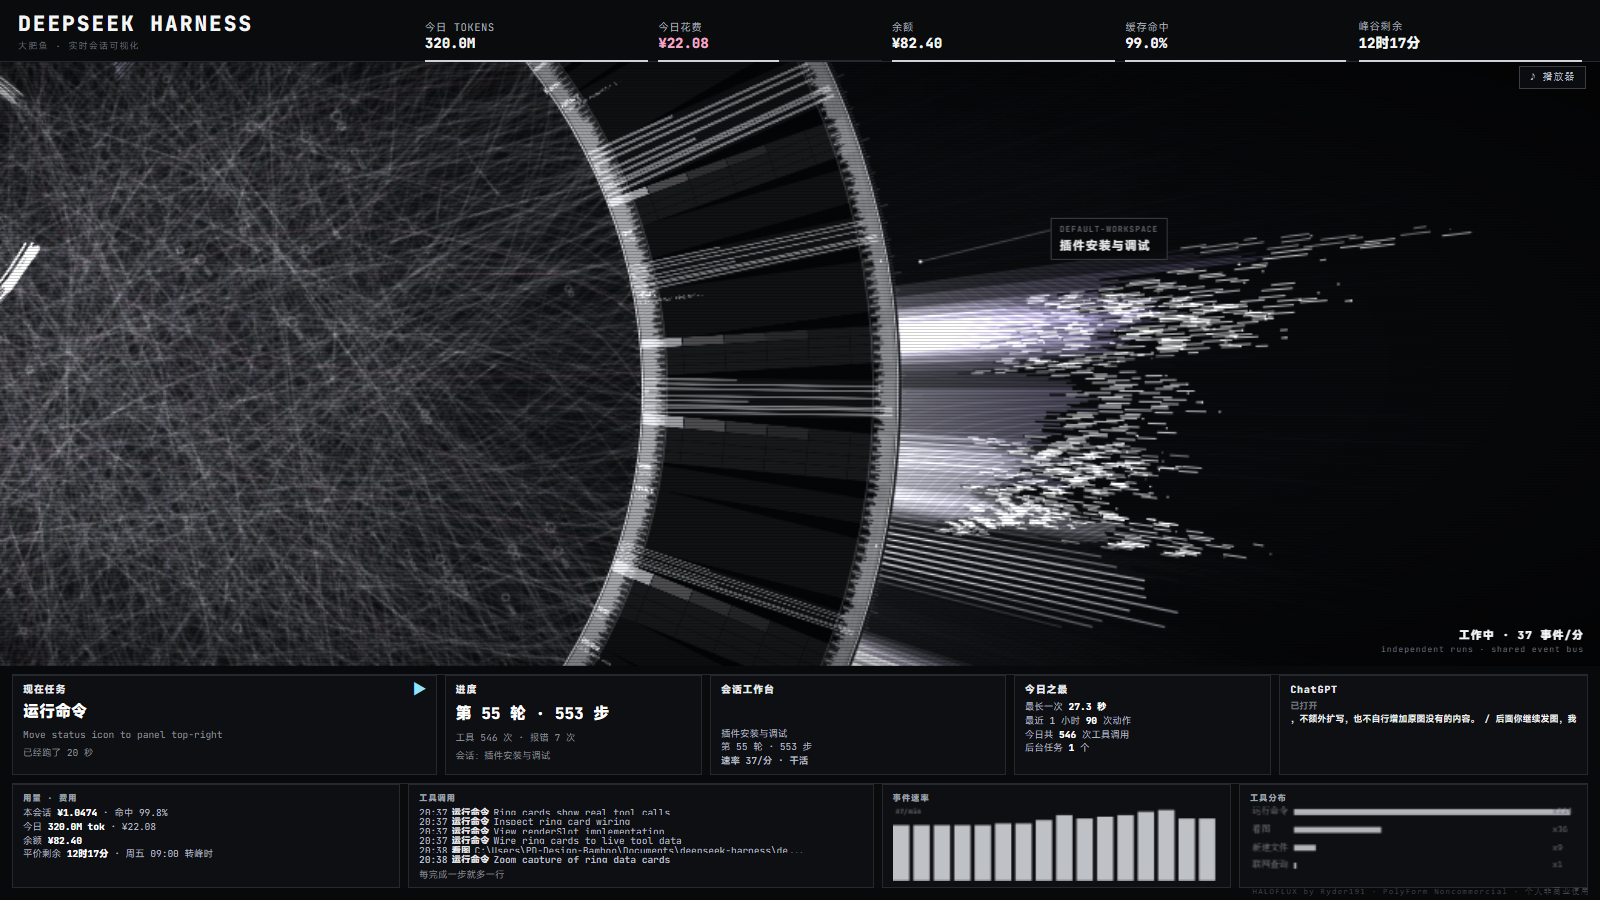
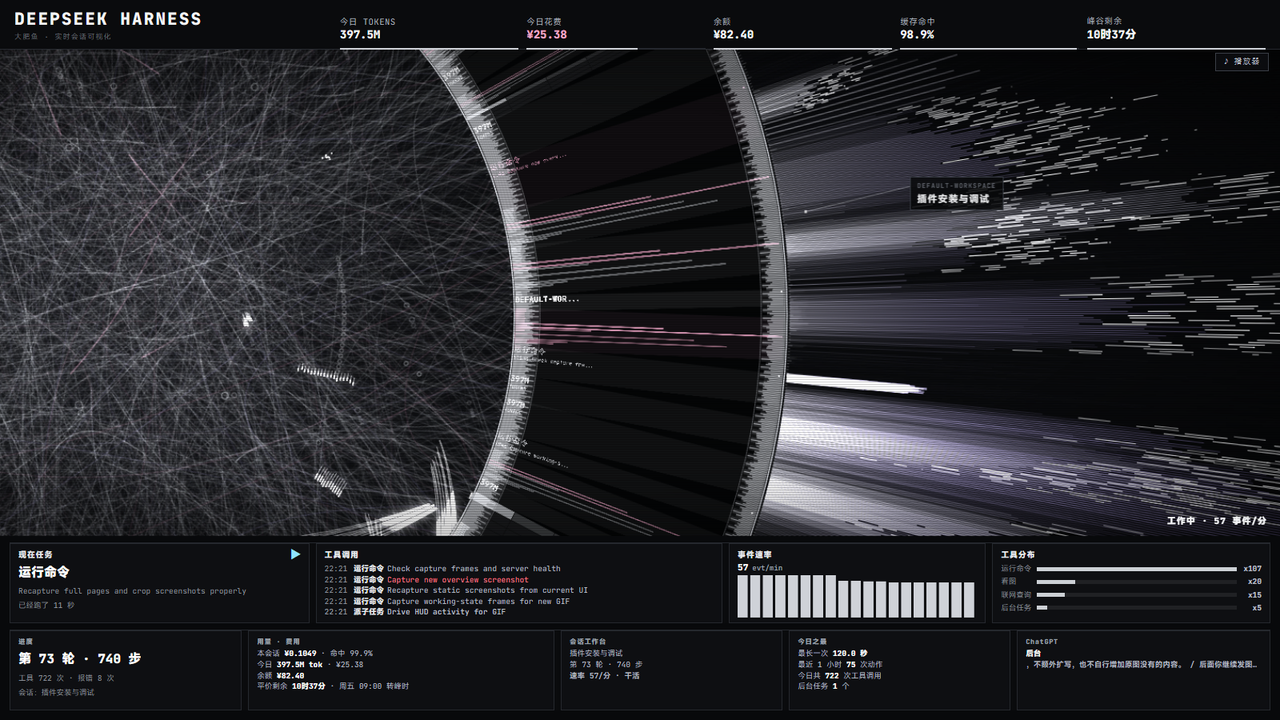
docs: refresh all screenshots and demo GIF for the new layout

diff --git a/README.md b/README.md
@@ -11,9 +11,9 @@
 > ⚠ HALOFLUX 采用 **PolyForm Noncommercial** 许可：**仅限个人非商业使用**，详见 [NOTICE.md](NOTICE.md)。
 > 署名默认不在画面上显示（`bridge.js` 的 `SHOW_CREDIT = true` 可重新打开）；完整版权信息见 `NOTICE.md` / `LICENSE`。
 
-![待命 → 爆发](docs/screenshots/demo.gif)
+![工具运行时的联动](docs/screenshots/demo.gif)
 
-*空闲时慢速待命；一跑工具就光束爆发、环带加速、面板数字滚动。*
+*工具连续运行时：光束持续爆发、环带加速、面板数字滚动；空闲 4 秒后自动降为慢速待命。*
 
 ## 特性
 
@@ -27,6 +27,10 @@
 - **壁纸化**：Lively / Wallpaper Engine 专用工程，断线自动重试
 
 ![面板](docs/screenshots/panels.png)
+
+![圆环数据带](docs/screenshots/ring.png)
+
+![本地播放器](docs/screenshots/player.png)
 
 
 ## 字体规范

diff --git a/README.en.md b/README.en.md
@@ -12,7 +12,7 @@ same frame, then the whole page is mounted as a **Lively Wallpaper** desktop wal
 > ⚠ HALOFLUX is licensed under **PolyForm Noncommercial** — **personal, non-commercial use only**.
 > Details in [NOTICE.md](NOTICE.md). The on-screen credit is hidden by default; set `SHOW_CREDIT = true` in `bridge.js` to show it again.
 
-![Demo: idle → burst](docs/screenshots/demo.gif)
+![Live while tools run](docs/screenshots/demo.gif)
 
 ## Features
 
@@ -25,6 +25,10 @@ same frame, then the whole page is mounted as a **Lively Wallpaper** desktop wal
 - **Wallpaper-ready** — Lively / Wallpaper Engine project with auto-reconnect when the service restarts
 
 ![Panels](docs/screenshots/panels.png)
+
+![Ring data band](docs/screenshots/ring.png)
+
+![Local player](docs/screenshots/player.png)
 
 
 ## Typography
